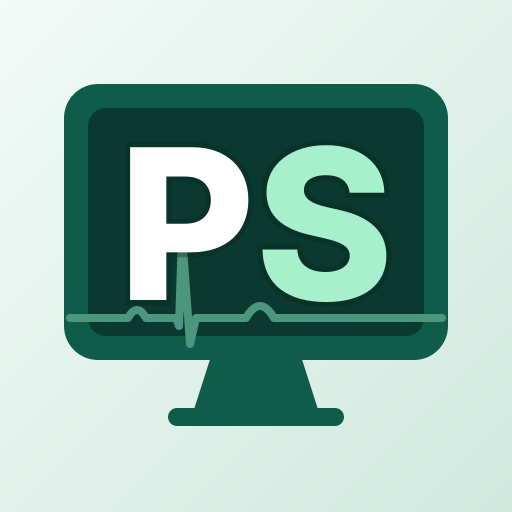
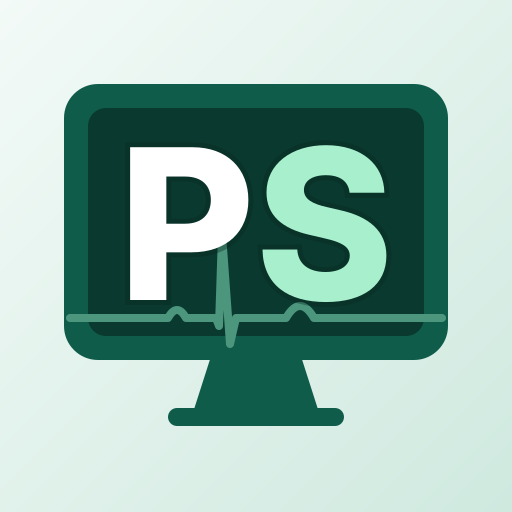
Icono: complejo ECG desplazado 40 unidades a la derecha
Se mueven la onda P, el QRS y la T del latido del icono 40 unidades a
la derecha, para acercar el QRS a la letra S. Se regeneran los PNG de la
web y los mipmap de Android.

Claude-Session: https://claude.ai/code/session_01R6CL9Y27hc3y3V93YZZEj1

Changed region(s): [[0.3125, 0.4688, 0.625, 0.6875], [0.25, 0.5938, 0.2812, 0.6562]]

diff --git a/propuestas/icono_ps_monitor.html b/propuestas/icono_ps_monitor.html
@@ -6,7 +6,7 @@
 <p class="sub">Maqueta sin aplicar. Cinco propuestas con los colores de la nueva imagen (verde de la cabecera, menta y el trazo del latido). Cada una se ve como icono cuadrado redondeado (iPhone/iPad), recortado en círculo (Android) y a tamaño pequeño de pantalla de inicio.</p>
 <div class="grid"><section class="card"><h2>A · Monitor de fondo, latido detrás de las letras</h2><div class="row"><div class="ic sq"><svg viewBox="0 0 512 512" xmlns="http://www.w3.org/2000/svg"><defs><linearGradient id="gA" x1="0" y1="0" x2="1" y2="1"><stop offset="0" stop-color="#168066"/><stop offset="1" stop-color="#0a3a2f"/></linearGradient><filter id="bA" x="-20%" y="-20%" width="140%" height="140%"><feGaussianBlur stdDeviation="6"/></filter></defs><rect width="512" height="512" fill="url(#gA)"/><rect x="64" y="84" width="384" height="276" rx="34" fill="#0a2f27" stroke="#a8f0cd" stroke-opacity=".35" stroke-width="10"/><path d="M90 112 V332" stroke="#a8f0cd" stroke-opacity=".07" stroke-width="2"/><path d="M150 112 V332" stroke="#a8f0cd" stroke-opacity=".07" stroke-width="2"/><path d="M210 112 V332" stroke="#a8f0cd" stroke-opacity=".07" stroke-width="2"/><path d="M270 112 V332" stroke="#a8f0cd" stroke-opacity=".07" stroke-width="2"/><path d="M330 112 V332" stroke="#a8f0cd" stroke-opacity=".07" stroke-width="2"/><path d="M390 112 V332" stroke="#a8f0cd" stroke-opacity=".07" stroke-width="2"/><path d="M92 138 H420" stroke="#a8f0cd" stroke-opacity=".07" stroke-width="2"/><path d="M92 186 H420" stroke="#a8f0cd" stroke-opacity=".07" stroke-width="2"/><path d="M92 234 H420" stroke="#a8f0cd" stroke-opacity=".07" stroke-width="2"/><path d="M92 282 H420" stroke="#a8f0cd" stroke-opacity=".07" stroke-width="2"/>
 <path d="M214 360 h84 l16 50 h-116z" fill="#0a2f27" stroke="#a8f0cd" stroke-opacity=".35" stroke-width="10" stroke-linejoin="round"/>
-<rect x="168" y="408" width="176" height="16" rx="8" fill="#a8f0cd" fill-opacity=".35"/><path d="M70 318 H128 q9 -16 18 0 H176 l3 8 l3 -92 l8 110 l6 -26 H246 q14 -24 28 0 H442" fill="none" stroke="#4c967d" stroke-width="9" stroke-linecap="round" stroke-linejoin="round"/><text x="256" y="312" text-anchor="middle" font-family="Inter,system-ui,-apple-system,Segoe UI,Roboto,sans-serif" font-weight="800" font-size="250" letter-spacing="-8" stroke="#06241d" stroke-opacity=".35" stroke-width="10" paint-order="stroke" ><tspan fill="#ffffff">P</tspan><tspan fill="#a8f0cd">S</tspan></text></svg></div><div class="ic ci"><svg viewBox="0 0 512 512" xmlns="http://www.w3.org/2000/svg"><defs><linearGradient id="gA" x1="0" y1="0" x2="1" y2="1"><stop offset="0" stop-color="#168066"/><stop offset="1" stop-color="#0a3a2f"/></linearGradient><filter id="bA" x="-20%" y="-20%" width="140%" height="140%"><feGaussianBlur stdDeviation="6"/></filter></defs><rect width="512" height="512" fill="url(#gA)"/><rect x="64" y="84" width="384" height="276" rx="34" fill="#0a2f27" stroke="#a8f0cd" stroke-opacity=".35" stroke-width="10"/><path d="M90 112 V332" stroke="#a8f0cd" stroke-opacity=".07" stroke-width="2"/><path d="M150 112 V332" stroke="#a8f0cd" stroke-opacity=".07" stroke-width="2"/><path d="M210 112 V332" stroke="#a8f0cd" stroke-opacity=".07" stroke-width="2"/><path d="M270 112 V332" stroke="#a8f0cd" stroke-opacity=".07" stroke-width="2"/><path d="M330 112 V332" stroke="#a8f0cd" stroke-opacity=".07" stroke-width="2"/><path d="M390 112 V332" stroke="#a8f0cd" stroke-opacity=".07" stroke-width="2"/><path d="M92 138 H420" stroke="#a8f0cd" stroke-opacity=".07" stroke-width="2"/><path d="M92 186 H420" stroke="#a8f0cd" stroke-opacity=".07" stroke-width="2"/><path d="M92 234 H420" stroke="#a8f0cd" stroke-opacity=".07" stroke-width="2"/><path d="M92 282 H420" stroke="#a8f0cd" stroke-opacity=".07" stroke-width="2"/>
+<rect x="168" y="408" width="176" height="16" rx="8" fill="#a8f0cd" fill-opacity=".35"/><path d="M70 318 H168 q9 -16 18 0 H216 l3 8 l3 -92 l8 110 l6 -26 H286 q14 -24 28 0 H442" fill="none" stroke="#4c967d" stroke-width="9" stroke-linecap="round" stroke-linejoin="round"/><text x="256" y="312" text-anchor="middle" font-family="Inter,system-ui,-apple-system,Segoe UI,Roboto,sans-serif" font-weight="800" font-size="250" letter-spacing="-8" stroke="#06241d" stroke-opacity=".35" stroke-width="10" paint-order="stroke" ><tspan fill="#ffffff">P</tspan><tspan fill="#a8f0cd">S</tspan></text></svg></div><div class="ic ci"><svg viewBox="0 0 512 512" xmlns="http://www.w3.org/2000/svg"><defs><linearGradient id="gA" x1="0" y1="0" x2="1" y2="1"><stop offset="0" stop-color="#168066"/><stop offset="1" stop-color="#0a3a2f"/></linearGradient><filter id="bA" x="-20%" y="-20%" width="140%" height="140%"><feGaussianBlur stdDeviation="6"/></filter></defs><rect width="512" height="512" fill="url(#gA)"/><rect x="64" y="84" width="384" height="276" rx="34" fill="#0a2f27" stroke="#a8f0cd" stroke-opacity=".35" stroke-width="10"/><path d="M90 112 V332" stroke="#a8f0cd" stroke-opacity=".07" stroke-width="2"/><path d="M150 112 V332" stroke="#a8f0cd" stroke-opacity=".07" stroke-width="2"/><path d="M210 112 V332" stroke="#a8f0cd" stroke-opacity=".07" stroke-width="2"/><path d="M270 112 V332" stroke="#a8f0cd" stroke-opacity=".07" stroke-width="2"/><path d="M330 112 V332" stroke="#a8f0cd" stroke-opacity=".07" stroke-width="2"/><path d="M390 112 V332" stroke="#a8f0cd" stroke-opacity=".07" stroke-width="2"/><path d="M92 138 H420" stroke="#a8f0cd" stroke-opacity=".07" stroke-width="2"/><path d="M92 186 H420" stroke="#a8f0cd" stroke-opacity=".07" stroke-width="2"/><path d="M92 234 H420" stroke="#a8f0cd" stroke-opacity=".07" stroke-width="2"/><path d="M92 282 H420" stroke="#a8f0cd" stroke-opacity=".07" stroke-width="2"/>
 <path d="M214 360 h84 l16 50 h-116z" fill="#0a2f27" stroke="#a8f0cd" stroke-opacity=".35" stroke-width="10" stroke-linejoin="round"/>
 <rect x="168" y="408" width="176" height="16" rx="8" fill="#a8f0cd" fill-opacity=".35"/><path d="M70 318 H128 q9 -16 18 0 H188 l8 12 l14 -92 l12 118 l9 -38 H262 q12 -22 24 0 H442" fill="none" stroke="#4c967d" stroke-width="9" stroke-linecap="round" stroke-linejoin="round"/><text x="256" y="312" text-anchor="middle" font-family="Inter,system-ui,-apple-system,Segoe UI,Roboto,sans-serif" font-weight="800" font-size="250" letter-spacing="-8" stroke="#06241d" stroke-opacity=".35" stroke-width="10" paint-order="stroke" ><tspan fill="#ffffff">P</tspan><tspan fill="#a8f0cd">S</tspan></text></svg></div><div class="sm"><div class="ic sq s48"><svg viewBox="0 0 512 512" xmlns="http://www.w3.org/2000/svg"><defs><linearGradient id="gA" x1="0" y1="0" x2="1" y2="1"><stop offset="0" stop-color="#168066"/><stop offset="1" stop-color="#0a3a2f"/></linearGradient><filter id="bA" x="-20%" y="-20%" width="140%" height="140%"><feGaussianBlur stdDeviation="6"/></filter></defs><rect width="512" height="512" fill="url(#gA)"/><rect x="64" y="84" width="384" height="276" rx="34" fill="#0a2f27" stroke="#a8f0cd" stroke-opacity=".35" stroke-width="10"/><path d="M90 112 V332" stroke="#a8f0cd" stroke-opacity=".07" stroke-width="2"/><path d="M150 112 V332" stroke="#a8f0cd" stroke-opacity=".07" stroke-width="2"/><path d="M210 112 V332" stroke="#a8f0cd" stroke-opacity=".07" stroke-width="2"/><path d="M270 112 V332" stroke="#a8f0cd" stroke-opacity=".07" stroke-width="2"/><path d="M330 112 V332" stroke="#a8f0cd" stroke-opacity=".07" stroke-width="2"/><path d="M390 112 V332" stroke="#a8f0cd" stroke-opacity=".07" stroke-width="2"/><path d="M92 138 H420" stroke="#a8f0cd" stroke-opacity=".07" stroke-width="2"/><path d="M92 186 H420" stroke="#a8f0cd" stroke-opacity=".07" stroke-width="2"/><path d="M92 234 H420" stroke="#a8f0cd" stroke-opacity=".07" stroke-width="2"/><path d="M92 282 H420" stroke="#a8f0cd" stroke-opacity=".07" stroke-width="2"/>
 <path d="M214 360 h84 l16 50 h-116z" fill="#0a2f27" stroke="#a8f0cd" stroke-opacity=".35" stroke-width="10" stroke-linejoin="round"/>
